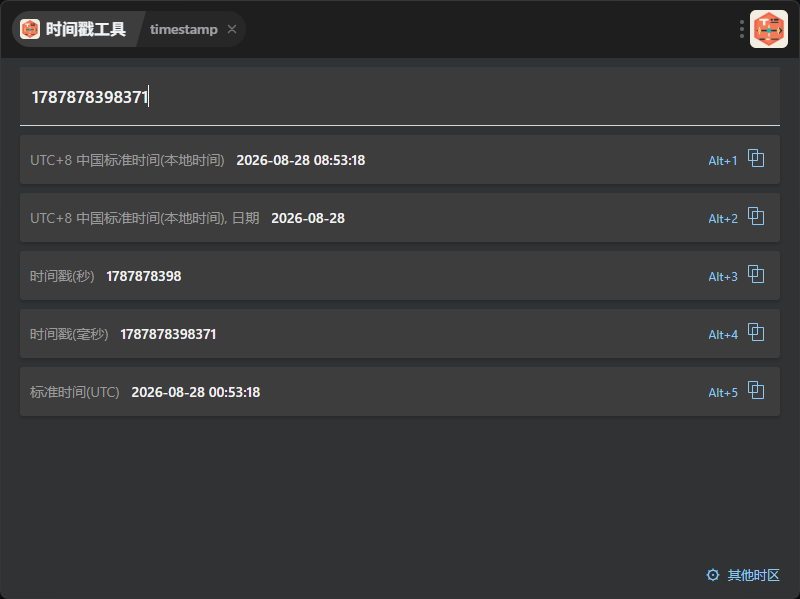
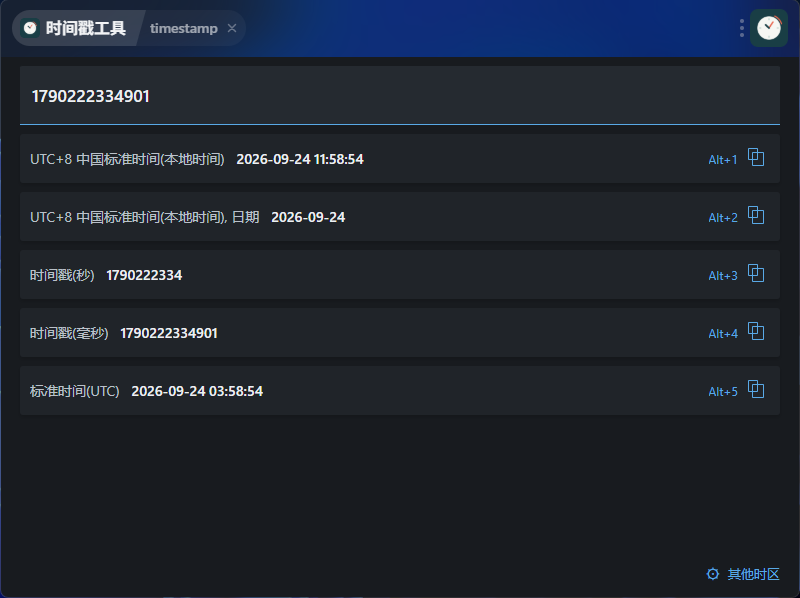
重绘插件图标、优化深色模式配色、侧边展开收起动画

diff --git a/src/Timestamp/index.vue b/src/Timestamp/index.vue
@@ -563,14 +563,22 @@ onBeforeUnmount(() => {
       <span>其他时区</span>
     </button>
 
-    <template v-if="isTimezonePanelOpen">
+    <Transition name="timezone-backdrop">
       <button
+        v-if="isTimezonePanelOpen"
         class="panel-backdrop"
         type="button"
         aria-label="关闭其他时区"
         @click="closeTimezonePanel"
       ></button>
-      <aside id="timezone-panel" class="timezone-panel" aria-label="其他时区">
+    </Transition>
+    <Transition name="timezone-drawer">
+      <aside
+        v-if="isTimezonePanelOpen"
+        id="timezone-panel"
+        class="timezone-panel"
+        aria-label="其他时区"
+      >
         <label
           v-for="timezone in TIMEZONES"
           :key="timezone.id"
@@ -596,21 +604,30 @@ onBeforeUnmount(() => {
           <span>{{ format.label }}</span>
         </label>
       </aside>
-    </template>
+    </Transition>
   </div>
 </template>
 
 <style scoped>
 .timestamp-app {
-  --app-background: #303233;
-  --input-background: #3b3b3b;
-  --row-background: #3d3d3d;
-  --row-shadow: rgba(0, 0, 0, 0.2);
-  --primary-text: #f4f4f4;
-  --secondary-text: #9a9a9a;
-  --accent: #8ac9f6;
-  --panel-background: #4a4a4a;
-  --panel-hover: #555555;
+  --app-background: #181b1f;
+  --input-background: #252a30;
+  --row-background: #202429;
+  --row-shadow: rgba(0, 0, 0, 0.16);
+  --primary-text: #edf0f3;
+  --secondary-text: #bac1c9;
+  --accent: #59a9e6;
+  --panel-background: #202429;
+  --panel-hover: #343a42;
+  --input-border: #424952;
+  --input-focus-border: #59a9e6;
+  --empty-text: #8e98a3;
+  --checkbox-border: #68727d;
+  --checkbox-check: #1d3547;
+  --scrollbar-thumb: #555e68;
+  --content-scrollbar-thumb: #555e68;
+  --panel-scrollbar-thumb: #555e68;
+  --copy-hover-background: rgba(89, 169, 230, 0.12);
   position: relative;
   width: 100%;
   height: 100%;
@@ -625,7 +642,7 @@ onBeforeUnmount(() => {
   box-sizing: border-box;
   overflow-y: auto;
   padding: 9px 20px 54px;
-  scrollbar-color: #6f6f6f transparent;
+  scrollbar-color: var(--content-scrollbar-thumb) transparent;
   scrollbar-width: thin;
 }
 
@@ -642,7 +659,7 @@ onBeforeUnmount(() => {
 .app-content::-webkit-scrollbar-thumb,
 .timezone-panel::-webkit-scrollbar-thumb {
   border-radius: 4px;
-  background: #707070;
+  background: var(--scrollbar-thumb);
 }
 
 .timestamp-input {
@@ -652,18 +669,18 @@ onBeforeUnmount(() => {
   box-sizing: border-box;
   padding: 0 12px;
   border: 0;
-  border-bottom: 1px solid #aaaaaa;
+  border-bottom: 1px solid var(--input-border);
   border-radius: 2px 2px 0 0;
   outline: none;
   background: var(--input-background);
   color: var(--primary-text);
   font-size: 17px;
   font-weight: 600;
-  line-height: 59px;
+  line-height: 24px;
 }
 
 .timestamp-input:focus {
-  border-bottom-color: #d5d5d5;
+  border-bottom-color: var(--input-focus-border);
 }
 
 .result-list {
@@ -710,7 +727,7 @@ onBeforeUnmount(() => {
 }
 
 .result-row.is-empty .result-label {
-  color: #777777;
+  color: var(--empty-text);
 }
 
 .row-actions {
@@ -744,7 +761,7 @@ onBeforeUnmount(() => {
 }
 
 .copy-button:hover {
-  background: rgba(138, 201, 246, 0.12);
+  background: var(--copy-hover-background);
 }
 
 .copy-button:focus-visible,
@@ -824,8 +841,33 @@ onBeforeUnmount(() => {
   padding: 0 0 12px;
   background: var(--panel-background);
   box-shadow: -3px 0 6px rgba(0, 0, 0, 0.15);
-  scrollbar-color: #777777 transparent;
+  scrollbar-color: var(--panel-scrollbar-thumb) transparent;
   scrollbar-width: thin;
+}
+
+.timezone-backdrop-enter-active,
+.timezone-backdrop-leave-active {
+  transition: opacity 200ms ease;
+}
+
+.timezone-backdrop-enter-from,
+.timezone-backdrop-leave-to {
+  opacity: 0;
+}
+
+.timezone-drawer-enter-active,
+.timezone-drawer-leave-active {
+  transition: transform 240ms cubic-bezier(0.2, 0.8, 0.2, 1);
+}
+
+.timezone-drawer-enter-from,
+.timezone-drawer-leave-to {
+  transform: translateX(100%);
+}
+
+.timezone-backdrop-leave-active,
+.timezone-drawer-leave-active {
+  pointer-events: none;
 }
 
 .timezone-option {
@@ -851,7 +893,7 @@ onBeforeUnmount(() => {
   height: 16px;
   flex: 0 0 16px;
   margin: 0 12px 0 0;
-  border: 2px solid #c0c0c0;
+  border: 2px solid var(--checkbox-border);
   border-radius: 2px;
   appearance: none;
   background: transparent;
@@ -870,7 +912,7 @@ onBeforeUnmount(() => {
   left: 3px;
   width: 5px;
   height: 9px;
-  border: solid #31566e;
+  border: solid var(--checkbox-check);
   border-width: 0 2px 2px 0;
   content: '';
   transform: rotate(45deg);
@@ -894,22 +936,28 @@ onBeforeUnmount(() => {
     --accent: #1976b8;
     --panel-background: #ffffff;
     --panel-hover: #edf4f9;
-  }
-
-  .timestamp-input {
-    border-bottom-color: #9da4aa;
-  }
-
-  .result-row.is-empty .result-label {
-    color: #9da4aa;
+    --input-border: #9da4aa;
+    --input-focus-border: #d5d5d5;
+    --empty-text: #9da4aa;
+    --checkbox-border: #c0c0c0;
+    --checkbox-check: #ffffff;
+    --scrollbar-thumb: #707070;
+    --content-scrollbar-thumb: #6f6f6f;
+    --panel-scrollbar-thumb: #777777;
+    --copy-hover-background: rgba(138, 201, 246, 0.12);
   }
 
   .panel-backdrop {
     background: rgba(25, 30, 35, 0.36);
   }
+}
 
-  .timezone-option input:checked::after {
-    border-color: #ffffff;
+@media (prefers-reduced-motion: reduce) {
+  .timezone-backdrop-enter-active,
+  .timezone-backdrop-leave-active,
+  .timezone-drawer-enter-active,
+  .timezone-drawer-leave-active {
+    transition: none;
   }
 }
 

diff --git a/src/main.css b/src/main.css
@@ -20,7 +20,7 @@ body,
 
 body {
   overflow: hidden;
-  background: #303233;
+  background: #181b1f;
 }
 
 button,

diff --git a/CHANGELOG.md b/CHANGELOG.md
@@ -1,0 +1,19 @@
+# 更新日志
+
+## 1.0.2 - 2026-09-24
+
+- 生成新版时间戳工具图标，旧版真是太丑了
+- 优化深色模式下的配色样式，与 ztools 配色接近
+- 优化顶部文本框选中样式
+- 更多时区侧边栏增加展开收起的动画
+- 补充 CHANGELOG.md 更新日志文件
+
+## 1.0.1 - 2026-08-31
+
+### 时间戳工具
+
+- 在ztools中输入“时间戳工具”或时间戳打开插件，默认显示当前时间
+- 秒级/毫秒级 Unix 计时器、ISO 日期、常见日期分隔符、中文日期和结构支持日期格式
+- 实时显示中国标准时间、日期、秒级计时器、毫秒级计时器和 UTC 时间
+- 从“其他时区”侧栏选择更多固定 UTC 偏移时区或 UTC ISO 8601 格式，选择结果会追加到首页并保存
+- 前 9 项结果支持 Alt + 1 到 Alt + 9 快速复制，也可以点击每一项右侧的复制按钮
